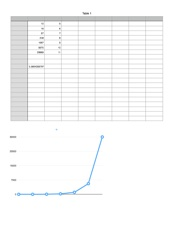
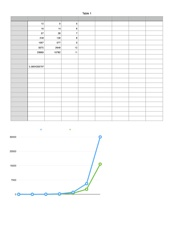
Used symmetry to roughly halve time for n-queens and n-rooks

diff --git a/src/solvers.js b/src/solvers.js
@@ -64,7 +64,27 @@ window.countNRooksSolutions = function(n) {
     }
   };
 
-  placeElemInRow(0);
+  // manually loop over first column for n/2 rows
+  for(var i = 0; i < Math.floor(n/2); i++){
+    curBoard.togglePiece(i, 0);
+    placeElemInRow(1);
+    curBoard.togglePiece(i, 0);
+  }
+
+  // doubling to account for symmetry
+  if(n !== 1) {
+    solutionCount *= 2;
+
+    // if odd, recurse over placement in median row
+    if((n % 2) === 1) {
+      curBoard.togglePiece(Math.ceil(n/2), 0);
+      placeElemInRow(1);
+      curBoard.togglePiece(Math.ceil(n/2), 0);
+    }
+  } else {
+    // special case: n === 1  --> loop over first column not initiated
+    solutionCount = 1;
+  }
 
   console.log('Number of solutions for ' + n + ' rooks:', solutionCount);
   return solutionCount;
@@ -130,7 +150,27 @@ window.countNQueensSolutions = function(n) {
     }
   };
 
-  placeElemInRow(0);
+  // manually loop over first column for n/2 rows
+  for(var i = 0; i < Math.floor(n/2); i++){
+    curBoard.togglePiece(i, 0);
+    placeElemInRow(1);
+    curBoard.togglePiece(i, 0);
+  }
+
+  // doubling to account for symmetry
+  if(n > 1) {
+    solutionCount *= 2;
+
+    // if odd, recurse over placement in median row
+    if((n % 2) === 1) {
+      curBoard.togglePiece(Math.ceil(n/2), 0);
+      placeElemInRow(1);
+      curBoard.togglePiece(Math.ceil(n/2), 0);
+    }
+  } else {
+    // special case: n === 1  --> loop over first column not initiated
+    solutionCount = 1;
+  }
 
   console.log('Number of solutions for ' + n + ' queens:', solutionCount);
   return solutionCount;
@@ -138,40 +178,40 @@ window.countNQueensSolutions = function(n) {
 
 
 // Time Profiling:
-// var now = new Date();
+var now = new Date();
 
-// countNQueensSolutions(5);
+countNQueensSolutions(5);
 
-// console.log('5', (new Date() - now));
+console.log('5', (new Date() - now));
 
-// now = new Date();
+now = new Date();
 
-// countNQueensSolutions(6);
+countNQueensSolutions(6);
 
-// console.log('6', (new Date() - now));
-// now = new Date();
+console.log('6', (new Date() - now));
+now = new Date();
 
-// countNQueensSolutions(7);
+countNQueensSolutions(7);
 
-// console.log('7', (new Date() - now));
-// now = new Date();
+console.log('7', (new Date() - now));
+now = new Date();
 
-// countNQueensSolutions(8);
+countNQueensSolutions(8);
 
-// console.log('8', (new Date() - now));
-// now = new Date();
+console.log('8', (new Date() - now));
+now = new Date();
 
-// countNQueensSolutions(9);
+countNQueensSolutions(9);
 
-// console.log('9', (new Date() - now));
-// now = new Date();
+console.log('9', (new Date() - now));
+now = new Date();
 
-// countNQueensSolutions(10);
+countNQueensSolutions(10);
 
-// console.log('10', (new Date() - now));
+console.log('10', (new Date() - now));
 
-// now = new Date();
+now = new Date();
 
 console.log(countNQueensSolutions(11));
 
-// console.log('11', (new Date() - now));
+console.log('11', (new Date() - now));
